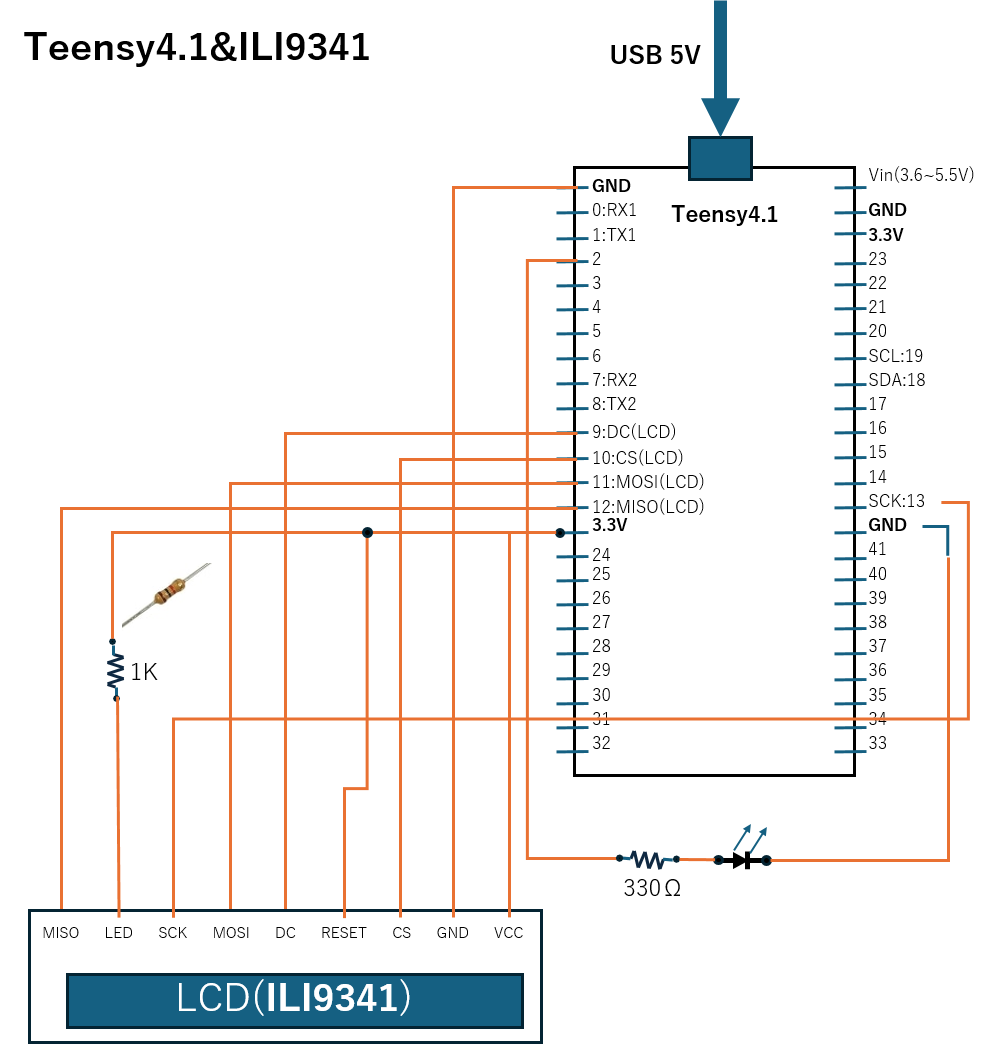
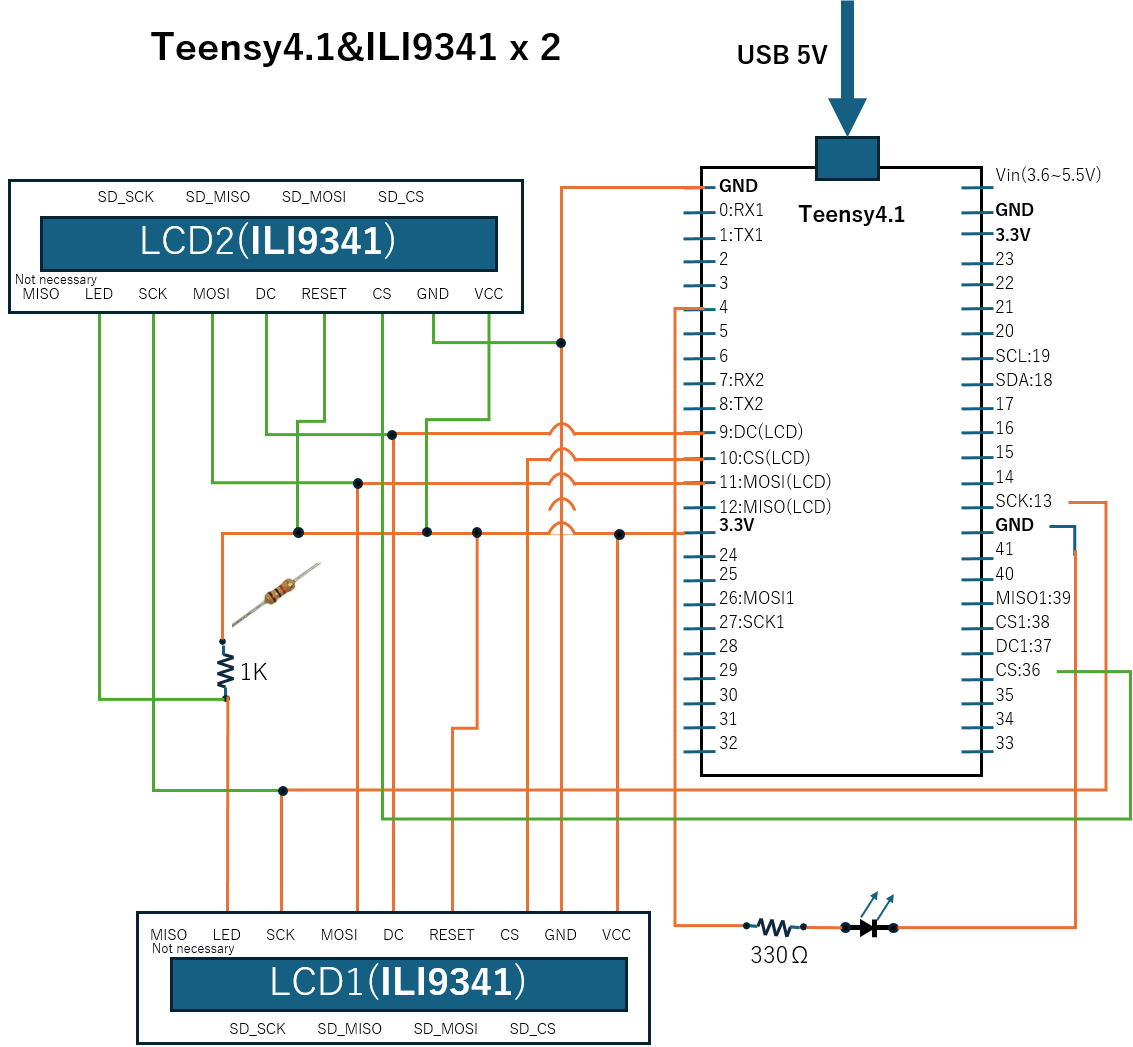
first upload

Changed region(s): [[0.0, 0.0, 1.0, 1.0], [0.0312, 0.0306, 0.5, 0.0612], [0.9375, 0.8566, 0.9688, 0.8872]]

diff --git a/README.md b/README.md
@@ -1,0 +1,12 @@
+# Teensy41_ILI9341_t3nx2_SD
+This is a sample code to run two LCD displays ILI9341 on Teensy4.1 with SD card.
+
+
+
+# Circuit diagram
+<img src="images/schematic.png" alt="回路図" title="Schamatic" width="50%">
+
+# Reference
+This code use the library of kurte/ILI9341_t3n.
+
+[kurte/ILI9341_t3n] https://github.com/KurtE/ILI9341_t3n
